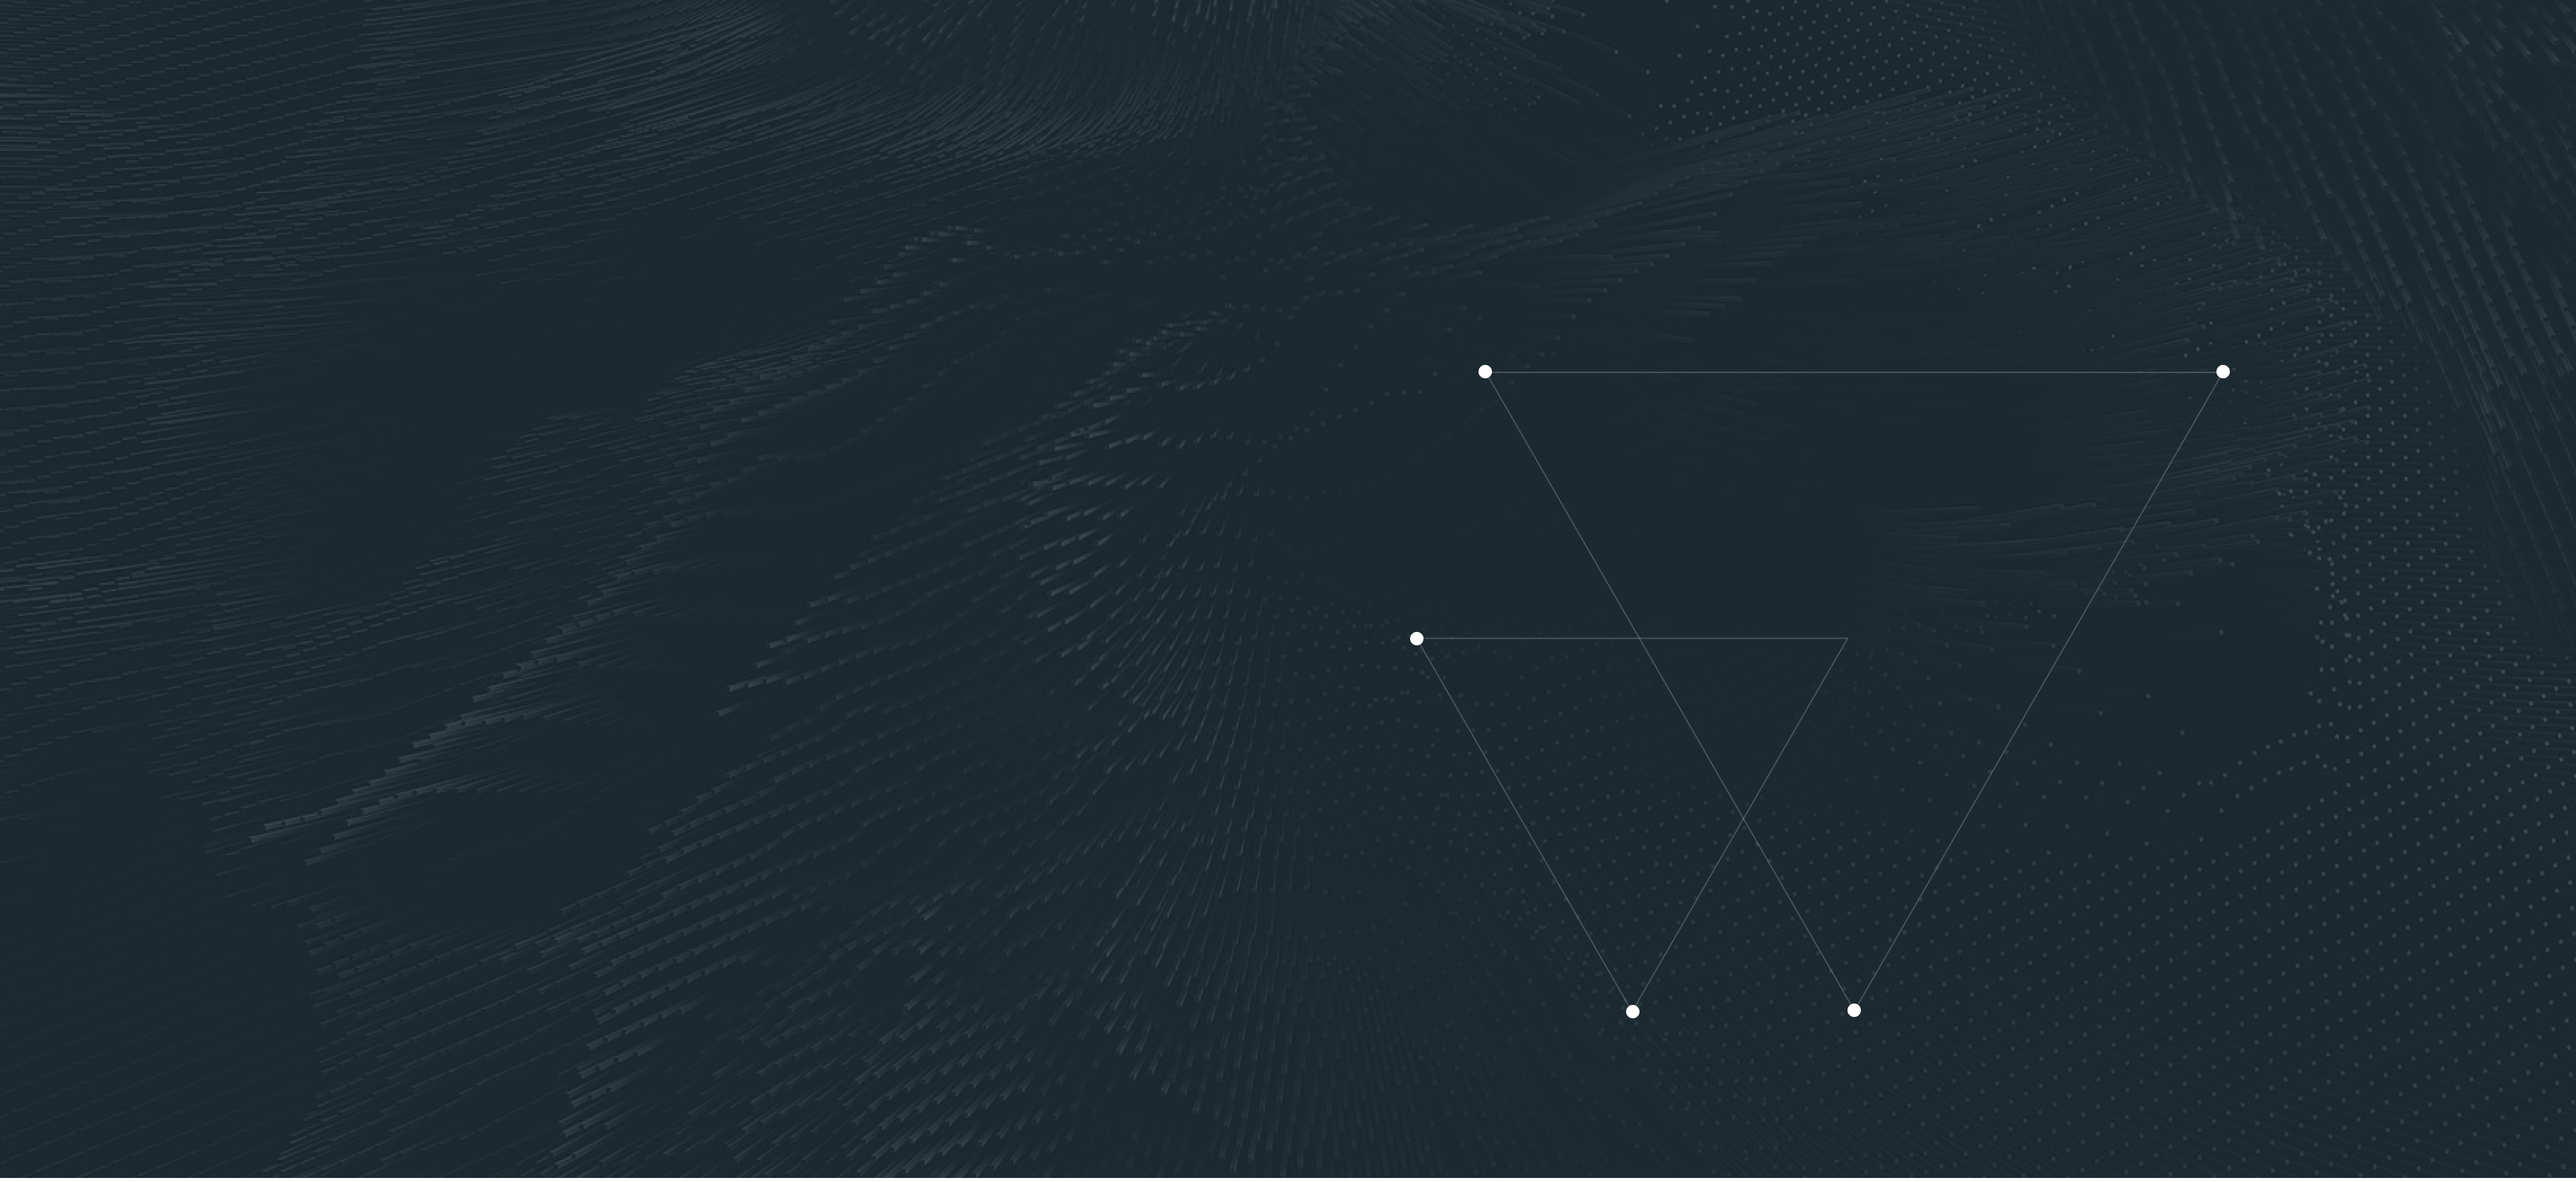
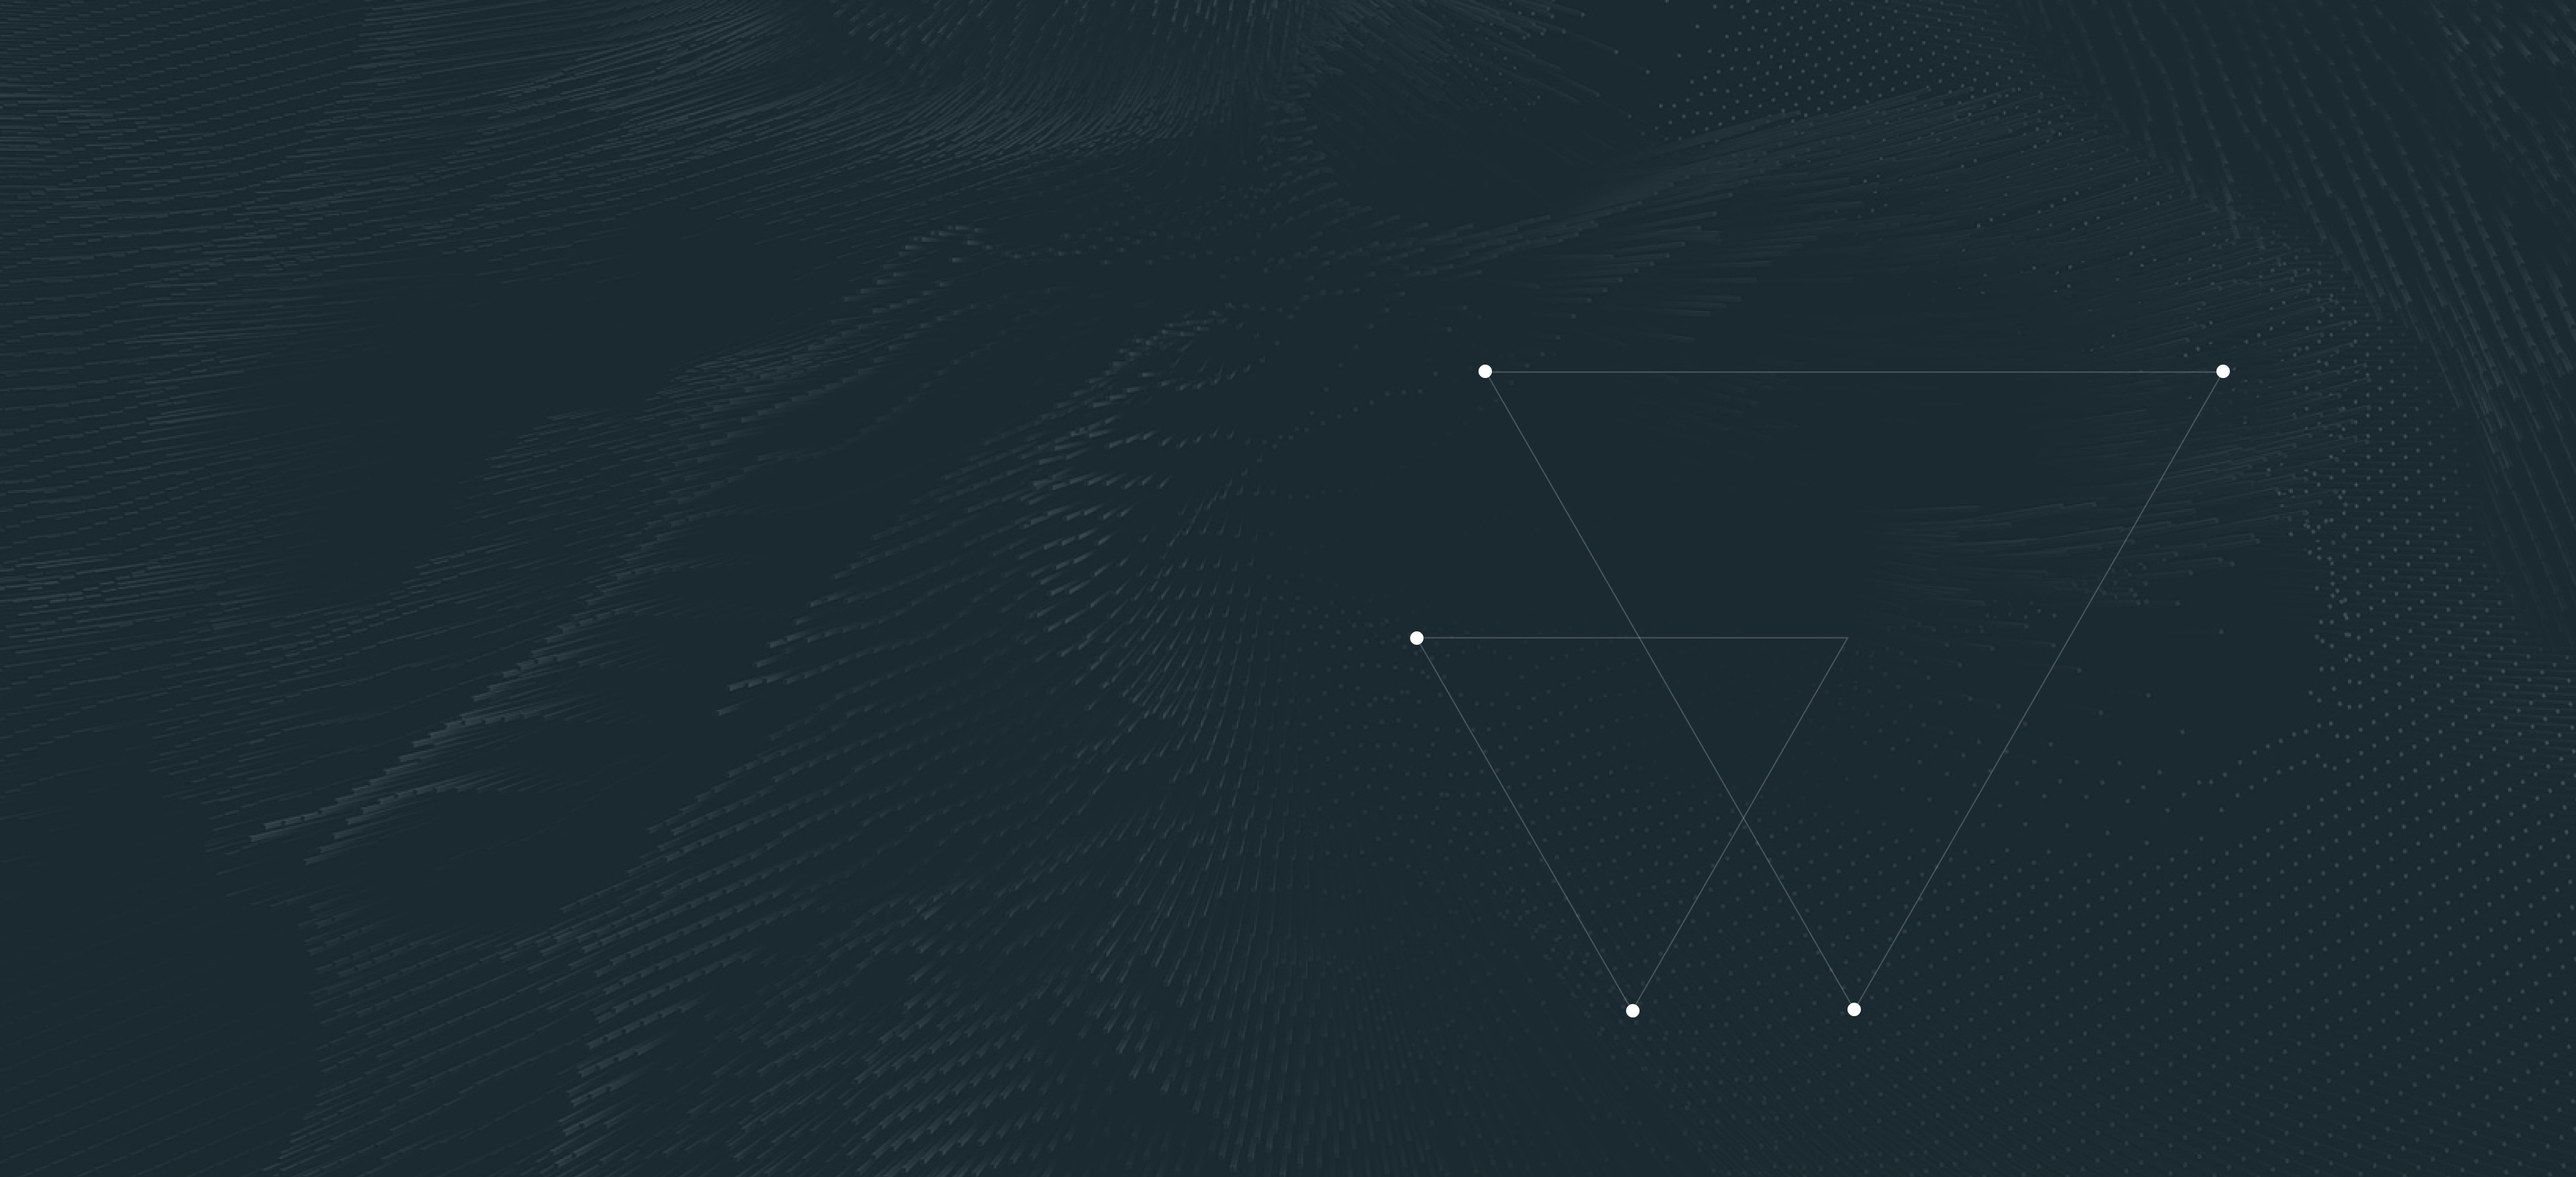
добавил картинки 2х

Changed region(s): [[0.0, 0.9841, 1.0, 1.0]]

diff --git a/source/sass/blocks/header.scss b/source/sass/blocks/header.scss
@@ -13,6 +13,12 @@
   background-repeat: no-repeat;
   background-position: top 258px right 14.218%,
   center top;
+  background-size: 705px, 1920px;
+
+  @media (min-resolution: 2dppx) {
+    background-image: url("../img/chip-desktop@2x.png"),
+    url("../img/bg-header-desktop@2x.jpg");
+  }
 }
 
 .header__content {
@@ -98,7 +104,12 @@
     background-repeat: no-repeat;
     background-position: top 113px right 0,
     center top;
-    background-size: auto, auto;
+    background-size: 260px, 770px;
+
+    @media (min-resolution: 2dppx) {
+      background-image: url("../img/chip-tablet@2x.png"),
+      url("../img/bg-header-tablet@2x.jpg");
+    }
   }
 
   .header__wrap-bottom {
@@ -141,6 +152,12 @@
     url("../img/bg-header-mobile@1x.jpg");
     background-position: top 92px right 0,
     center top;
+    background-size: 301px, 320px;
+
+    @media (min-resolution: 2dppx) {
+      background-image: url("../img/chip-mobile@2x.png"),
+      url("../img/bg-header-mobile@2x.jpg");
+    }
   }
 
   .header__content {
@@ -158,7 +175,7 @@
   }
 
   .header__wrap-bottom {
-    margin-left: 0;
     margin-top: 232px;
+    margin-left: 0;
   }
 }
